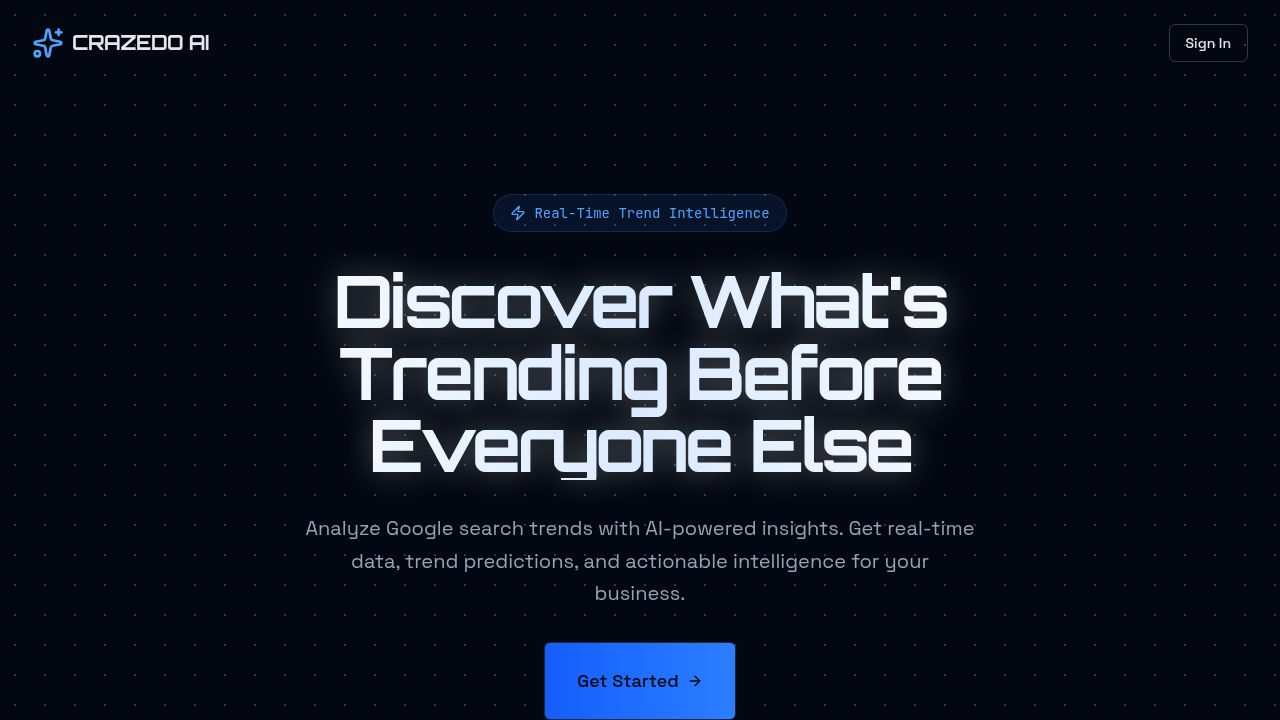
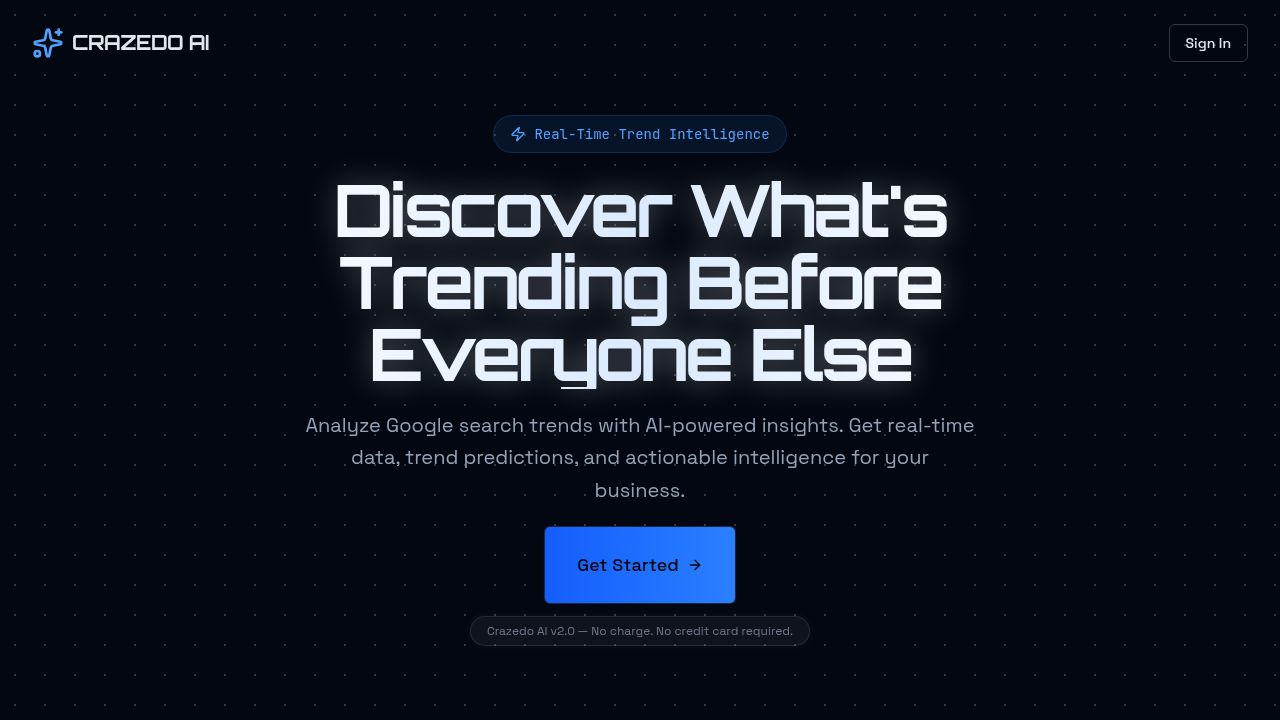
Update branding on the landing page trust badge
Change the trust badge text from "Crazedo Free" to "Crazedo AI v2.0" on the landing page.

Replit-Commit-Author: Agent
Replit-Commit-Session-Id: 7613e958-ef38-426c-b546-82c1ec04ea77
Replit-Commit-Checkpoint-Type: full_checkpoint
Replit-Commit-Event-Id: a85cfbfb-4ff8-4a63-addf-3639dd446daf
Replit-Commit-Screenshot-Url: https://storage.googleapis.com/screenshot-production-us-central1/670e5098-6651-4ee7-a7ab-e3f02323c6df/7613e958-ef38-426c-b546-82c1ec04ea77/Je2RuFv

Changed region(s): [[0.2188, 0.2444, 0.75, 1.0], [0.375, 0.1528, 0.625, 0.2139]]

diff --git a/client/src/pages/landing.tsx b/client/src/pages/landing.tsx
@@ -53,7 +53,7 @@ export default function Landing() {
               </Button>
             </a>
             <span className="text-xs text-muted-foreground/70 border border-white/10 rounded-full px-4 py-1.5 bg-white/5 shadow-[0_0_10px_rgba(255,255,255,0.05)]">
-              Crazedo Free — No charge. No credit card required.
+              Crazedo AI v2.0 — No charge. No credit card required.
             </span>
           </div>
 
